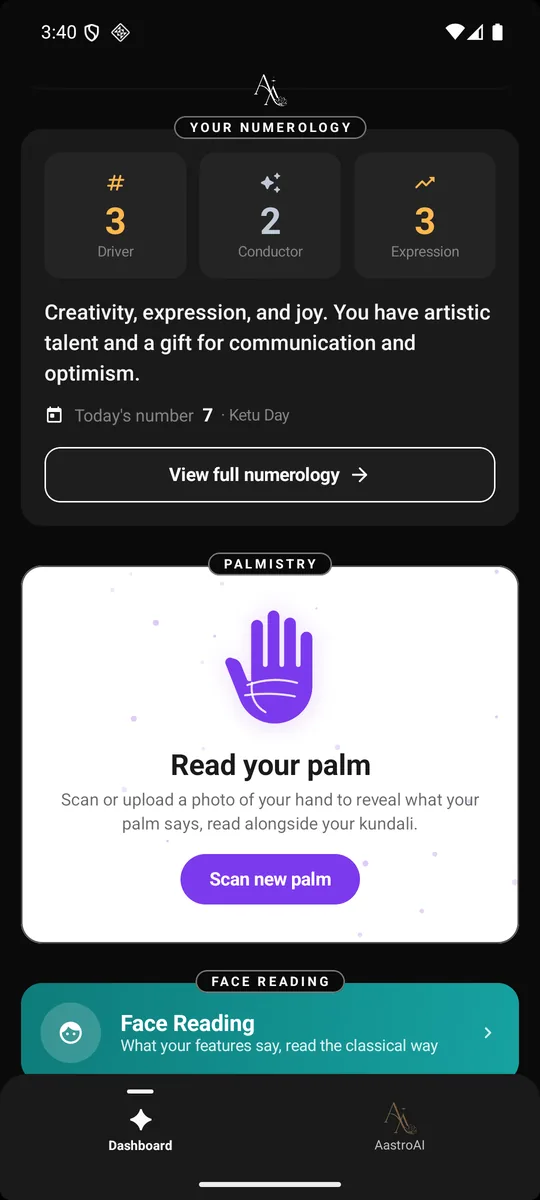
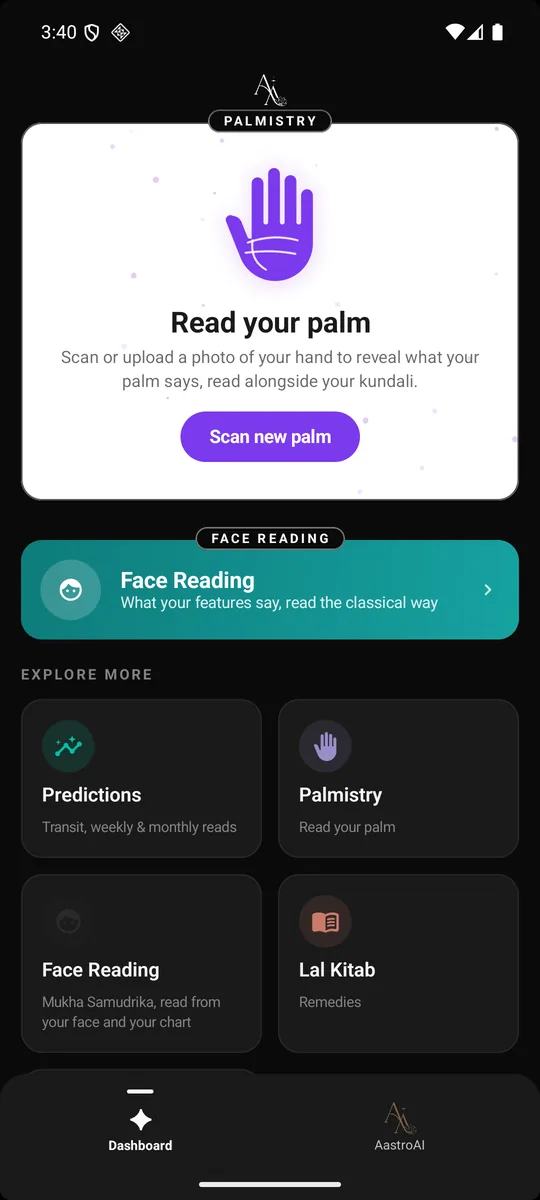
feat(site): the platforms rail names the five features, not the two themes
The rail read The day / North and South / Every degree / Your Lo Shu / Your
palm, and the eyebrow above it read LIGHT · DARK · ONE SCREEN. That made the
theme the subject of a section whose subject is what the app does, and the
theme is already carried by the two phones standing side by side.

So the five are the five features: Astrology, Numerology, Palmistry, Face
reading, AastroAI. The eyebrow is the feature name in the accent colour, the
rail is the feature names, and the screenshots were re-chosen to match rather
than being whichever screens happened to pair.

The phones still carry a quiet LIGHT and DARK caption underneath, because the
theming is worth seeing and is not worth announcing.

Every pair is the same screen in both themes, which is why they were worth
re-picking: the chart in North Indian style, the Lo Shu grid, "Read your palm",
"Take a clear photo", and the assistant's opening screen with its suggested
questions. The dark assistant shot needed making: the existing conversation on
that device was answering from the on-device fallback with "I couldn't reach the
server just now" across the top, which is true, is the server-side gap already
reported, and is not what belongs on a marketing page. Pointing the chat at a
different saved kundali starts a fresh thread, which gave the same clean opening
screen the light capture has.

Claude-Session: https://claude.ai/code/session_01DM8paWRuKDJChwWdkATX1z

diff --git a/index.html b/index.html
@@ -1078,9 +1078,9 @@
   .pf-tag { position:absolute; left:50%; transform:translateX(-50%); bottom:-24px; font-size:10px;
     font-weight:700; letter-spacing:1.6px; text-transform:uppercase; color:var(--muted); white-space:nowrap; }
 
-  .plat-copy .pc-mode { display:inline-flex; gap:14px; font-size:11px; letter-spacing:1.4px; text-transform:uppercase;
-    font-weight:700; color:var(--muted); margin-bottom:16px; }
-  .plat-copy .pc-mode b { color:var(--fg); font-weight:700; }
+  .plat-copy .pc-mode { display:inline-flex; font-size:11px; letter-spacing:2.4px; text-transform:uppercase;
+    font-weight:700; color:var(--tint); margin-bottom:14px; }
+  .plat-copy .pc-mode b { color:inherit; font-weight:700; }
   .plat-copy h3 { font-family:'Noto Serif',Georgia,serif; font-size:clamp(23px,2.8vw,32px); font-weight:700;
     letter-spacing:-.02em; line-height:1.1; margin:0; color:var(--fg); }
   .plat-copy p { color:var(--fg2); font-size:15.5px; line-height:1.65; margin:12px 0 0; max-width:44ch; }
@@ -2556,21 +2556,26 @@
         note:{ en:'Built on Material 3. Your wallpaper’s colours, your text size, your dark mode. The app follows the phone, not the other way round.',
                hi:'मटीरियल 3 पर बना। आपके वॉलपेपर के रंग, आपका टेक्स्ट साइज़, आपका डार्क मोड। ऐप फ़ोन के पीछे चलता है, उल्टा नहीं।' },
         shots:[
-          { k:'dashboard',  t:{en:'The day, before you ask',        hi:'दिन, पूछने से पहले'},
-                            d:{en:'Panchang, your rashi and the one thing worth knowing this morning, on the first screen.',
-                               hi:'पंचांग, आपकी राशि और आज सुबह जानने लायक एक बात, पहली ही स्क्रीन पर।'} },
-          { k:'kundali',    t:{en:'North and South, your call',     hi:'उत्तर या दक्षिण, आपकी पसंद'},
-                            d:{en:'The same chart in either style, with D1, D9, Chalit and Chandra a tap apart.',
-                               hi:'वही कुंडली दोनों शैलियों में, D1, D9, चलित और चंद्र एक टैप दूर।'} },
-          { k:'planets',    t:{en:'Every degree, shown',            hi:'हर अंश, सामने'},
-                            d:{en:'Sign, lord, degree and house for all nine grahas. Nothing rounded away to look tidy.',
-                               hi:'नौ ग्रहों के लिए राशि, स्वामी, अंश और भाव। सुंदर दिखने के लिए कुछ भी छिपाया नहीं।'} },
-          { k:'numerology', t:{en:'Your Lo Shu, filled in',         hi:'आपका लो शू, भरा हुआ'},
-                            d:{en:'The grid, the numbers you carry and the ones you are missing, computed on the device.',
-                               hi:'ग्रिड, आपके पास मौजूद अंक और जो नहीं हैं, सब डिवाइस पर ही गणना।'} },
-          { k:'palmistry',  t:{en:'Your palm, read on device',      hi:'आपकी हथेली, डिवाइस पर पढ़ी'},
-                            d:{en:'Point the camera. The lines are found and read locally; the photo never has to leave.',
-                               hi:'कैमरा दिखाइए। रेखाएँ यहीं पहचानी और पढ़ी जाती हैं; तस्वीर को कहीं जाना नहीं पड़ता।'} },
+          { k:'astrology',  tag:{en:'Astrology', hi:'ज्योतिष'},
+                            t:{en:'Your chart, in either style',  hi:'आपकी कुंडली, दोनों शैलियों में'},
+                            d:{en:'North Indian or South Indian, with D1, D9, Chalit and Chandra a tap apart. Every degree shown, nothing rounded away to look tidy.',
+                               hi:'उत्तर भारतीय या दक्षिण भारतीय, D1, D9, चलित और चंद्र एक टैप दूर। हर अंश सामने, सुंदर दिखने के लिए कुछ छिपाया नहीं।'} },
+          { k:'numerology', tag:{en:'Numerology', hi:'अंक ज्योतिष'},
+                            t:{en:'Your Lo Shu, filled in',       hi:'आपका लो शू, भरा हुआ'},
+                            d:{en:'The grid, the numbers you carry and the ones you are missing, with driver, conductor and Kua. Computed on the device.',
+                               hi:'ग्रिड, आपके पास मौजूद अंक और जो नहीं हैं, ड्राइवर, कंडक्टर और कुआ सहित। सब डिवाइस पर ही।'} },
+          { k:'palmistry',  tag:{en:'Palmistry', hi:'हस्तरेखा'},
+                            t:{en:'Your palm, read on device',    hi:'आपकी हथेली, डिवाइस पर पढ़ी'},
+                            d:{en:'Point the camera at your hand. The lines and mounts are found and read locally, and the photo never has to leave.',
+                               hi:'कैमरा अपनी हथेली पर रखिए। रेखाएँ और पर्वत यहीं पहचाने और पढ़े जाते हैं; तस्वीर को कहीं जाना नहीं पड़ता।'} },
+          { k:'face',       tag:{en:'Face reading', hi:'मुख सामुद्रिक'},
+                            t:{en:'Mukha Samudrika, alongside',   hi:'मुख सामुद्रिक, साथ-साथ'},
+                            d:{en:'What your features say, read next to your kundali rather than instead of it. One clear photo is enough.',
+                               hi:'आपके नैन-नक्श क्या कहते हैं, कुंडली के साथ पढ़ा गया, उसकी जगह नहीं। एक साफ़ तस्वीर काफ़ी है।'} },
+          { k:'aastroai',   tag:{en:'AastroAI', hi:'AastroAI'},
+                            t:{en:'Ask it about your own chart',  hi:'अपनी ही कुंडली के बारे में पूछिए'},
+                            d:{en:'Dasha timing, marriage, career. The device computes the astrology and the model only says it well, in English or Hindi.',
+                               hi:'दशा का समय, विवाह, करियर। ज्योतिष की गणना डिवाइस करता है, मॉडल केवल उसे ठीक से कहता है, अंग्रेज़ी या हिन्दी में।'} },
         ] },
     ];
 
@@ -2643,15 +2648,18 @@
                 })
               ),
               h('div', { className:'plat-copy' },
+                /* The feature, not the two themes. The eyebrow used to read
+                   "LIGHT · DARK · ONE SCREEN", which made the theme the subject
+                   of a section whose subject is what the app does. The phones
+                   still carry a light and a dark caption, quietly, because the
+                   theming is worth seeing and not worth announcing. */
                 h('div', { className:'pc-mode' },
-                  h('b', null, lang==='hi' ? 'लाइट' : 'Light'), '·',
-                  h('b', null, lang==='hi' ? 'डार्क' : 'Dark'),
-                  h('span', null, lang==='hi' ? 'एक ही स्क्रीन' : 'one screen')),
+                  h('b', null, (shot.tag && (shot.tag[lang] || shot.tag.en)) || '')),
                 h('h3', null, shot.t[lang] || shot.t.en),
                 h('p', null, shot.d[lang] || shot.d.en),
                 h('div', { className:'pc-rail' }, shots.map(function(x, i){
                   return h('button', { key:x.k, 'aria-pressed': i===si, onClick:function(){ setSi(i); } },
-                    x.t[lang] ? (x.t[lang].split(',')[0]) : x.t.en.split(',')[0]);
+                    (x.tag && (x.tag[lang] || x.tag.en)) || x.t.en);
                 })),
                 h('p', { className:'pc-note' }, P.note[lang] || P.note.en)
               )
